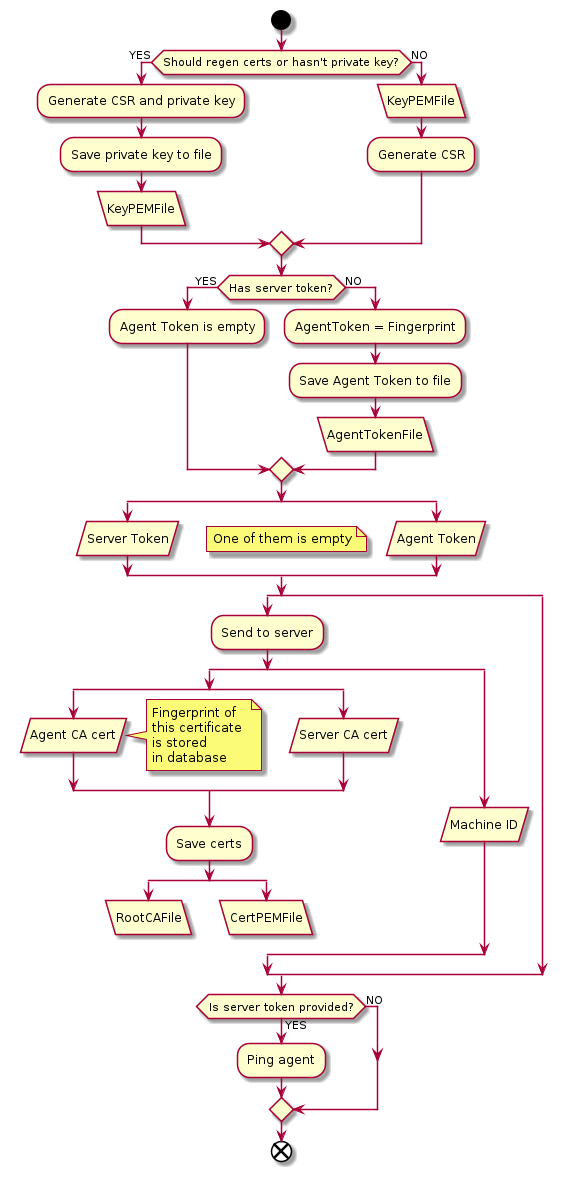
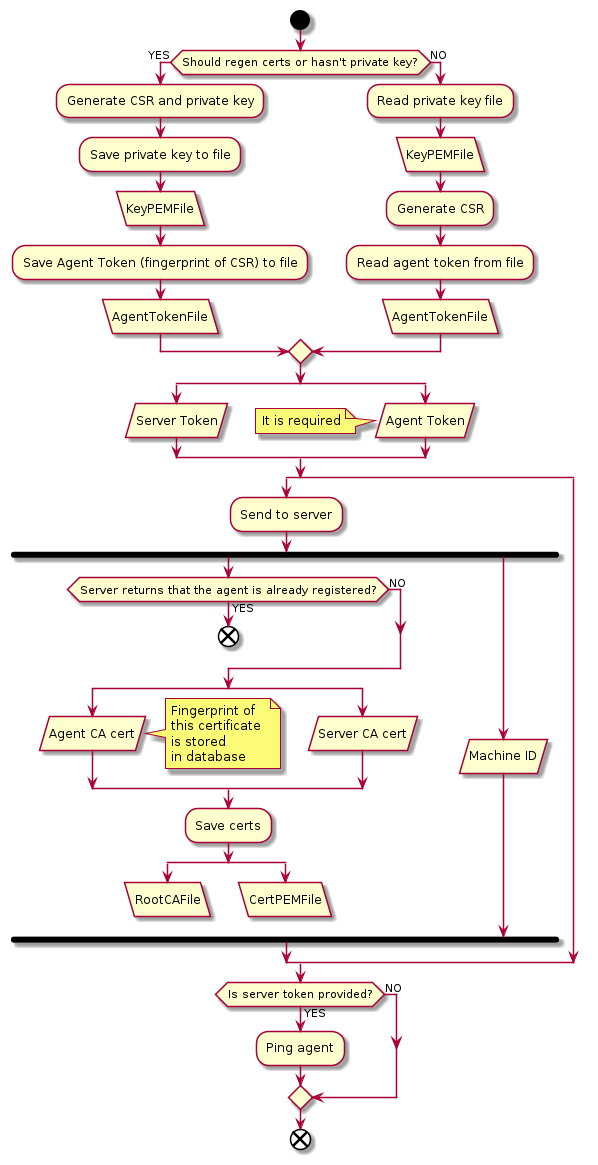
[#528] Update flowchart and docs

Changed region(s): [[0.0, 0.0, 0.9594, 0.9888]]

diff --git a/doc/devel.rst b/doc/devel.rst
@@ -710,10 +710,12 @@ Agent registration process
 
 Below diagram showing a flowchart of the agent registration process in Stork.
 First Certificate Signing Request (CSR) is generating using an existing or new
-private key. Next, if a server token isn't provided then an agent token is created.
-The CSR, server token, or agent token are sent to the Stork server. It all is good the server
+private key and agent token.
+The CSR, server token (optional), and agent token are sent to the Stork server. It all is good the server
 responses with a signed agent certificate, a server CA certificate, and assigned Machine ID.
-The agent uses this ID to verify that the registration is done correctly.
+If the agent is already registered with provided agent token then only the assigned Machine ID is returned
+without new certificates.
+The agent uses the machine ID to verify that the registration is done correctly.
 
 The diagram only contains the positive path.
 
